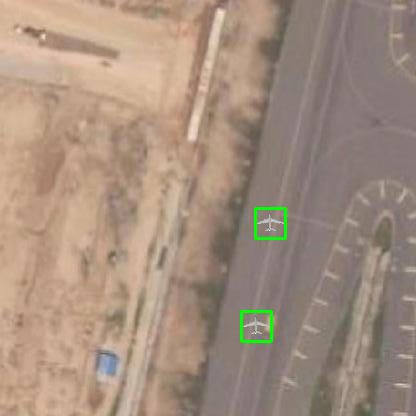
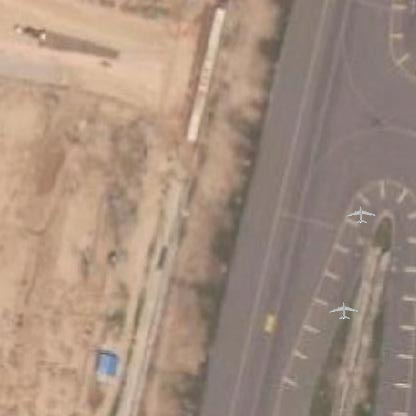
c

diff --git a/overlay_img.py b/overlay_img.py
@@ -1,14 +1,14 @@
 from PIL import Image
 import os
 import cv2
-from matplotlib.pyplot import flag
+# from matplotlib.pyplot import flag
 import numpy as np
 import glob
 from tqdm import tqdm
 
 # Global variables
 coordinates_list = []
-background_img = ''
+# background_img = ''
 
 # Useful Constants and Variables
 background_img = 'base_imgs/satellite_img1.jpg'

diff --git a/main.py b/main.py
@@ -8,7 +8,7 @@ import time
 st = time.time()
 # Running Loop Script
 filename = 'airplane.stl'
-deg = 45
+deg = 90
 # rotation(filename,deg)
 rotation_tilt(filename,deg)
 
@@ -18,7 +18,7 @@ transparent_overlayimg(object_dim)
 
 # Paste Transperent Overlay on Satilite Imagery
 offset = 5
-flag_rect = True
+flag_rect = False
 overlayimg_make(offset,flag_rect)
 
 

diff --git a/tran_png.py b/tran_png.py
@@ -43,4 +43,3 @@ def transparent_overlayimg(dim=[50,50]):
 
         cv2.imwrite(output_folderName+'/'+base_name[:-4]+'_t'+".png", output)
 
-
